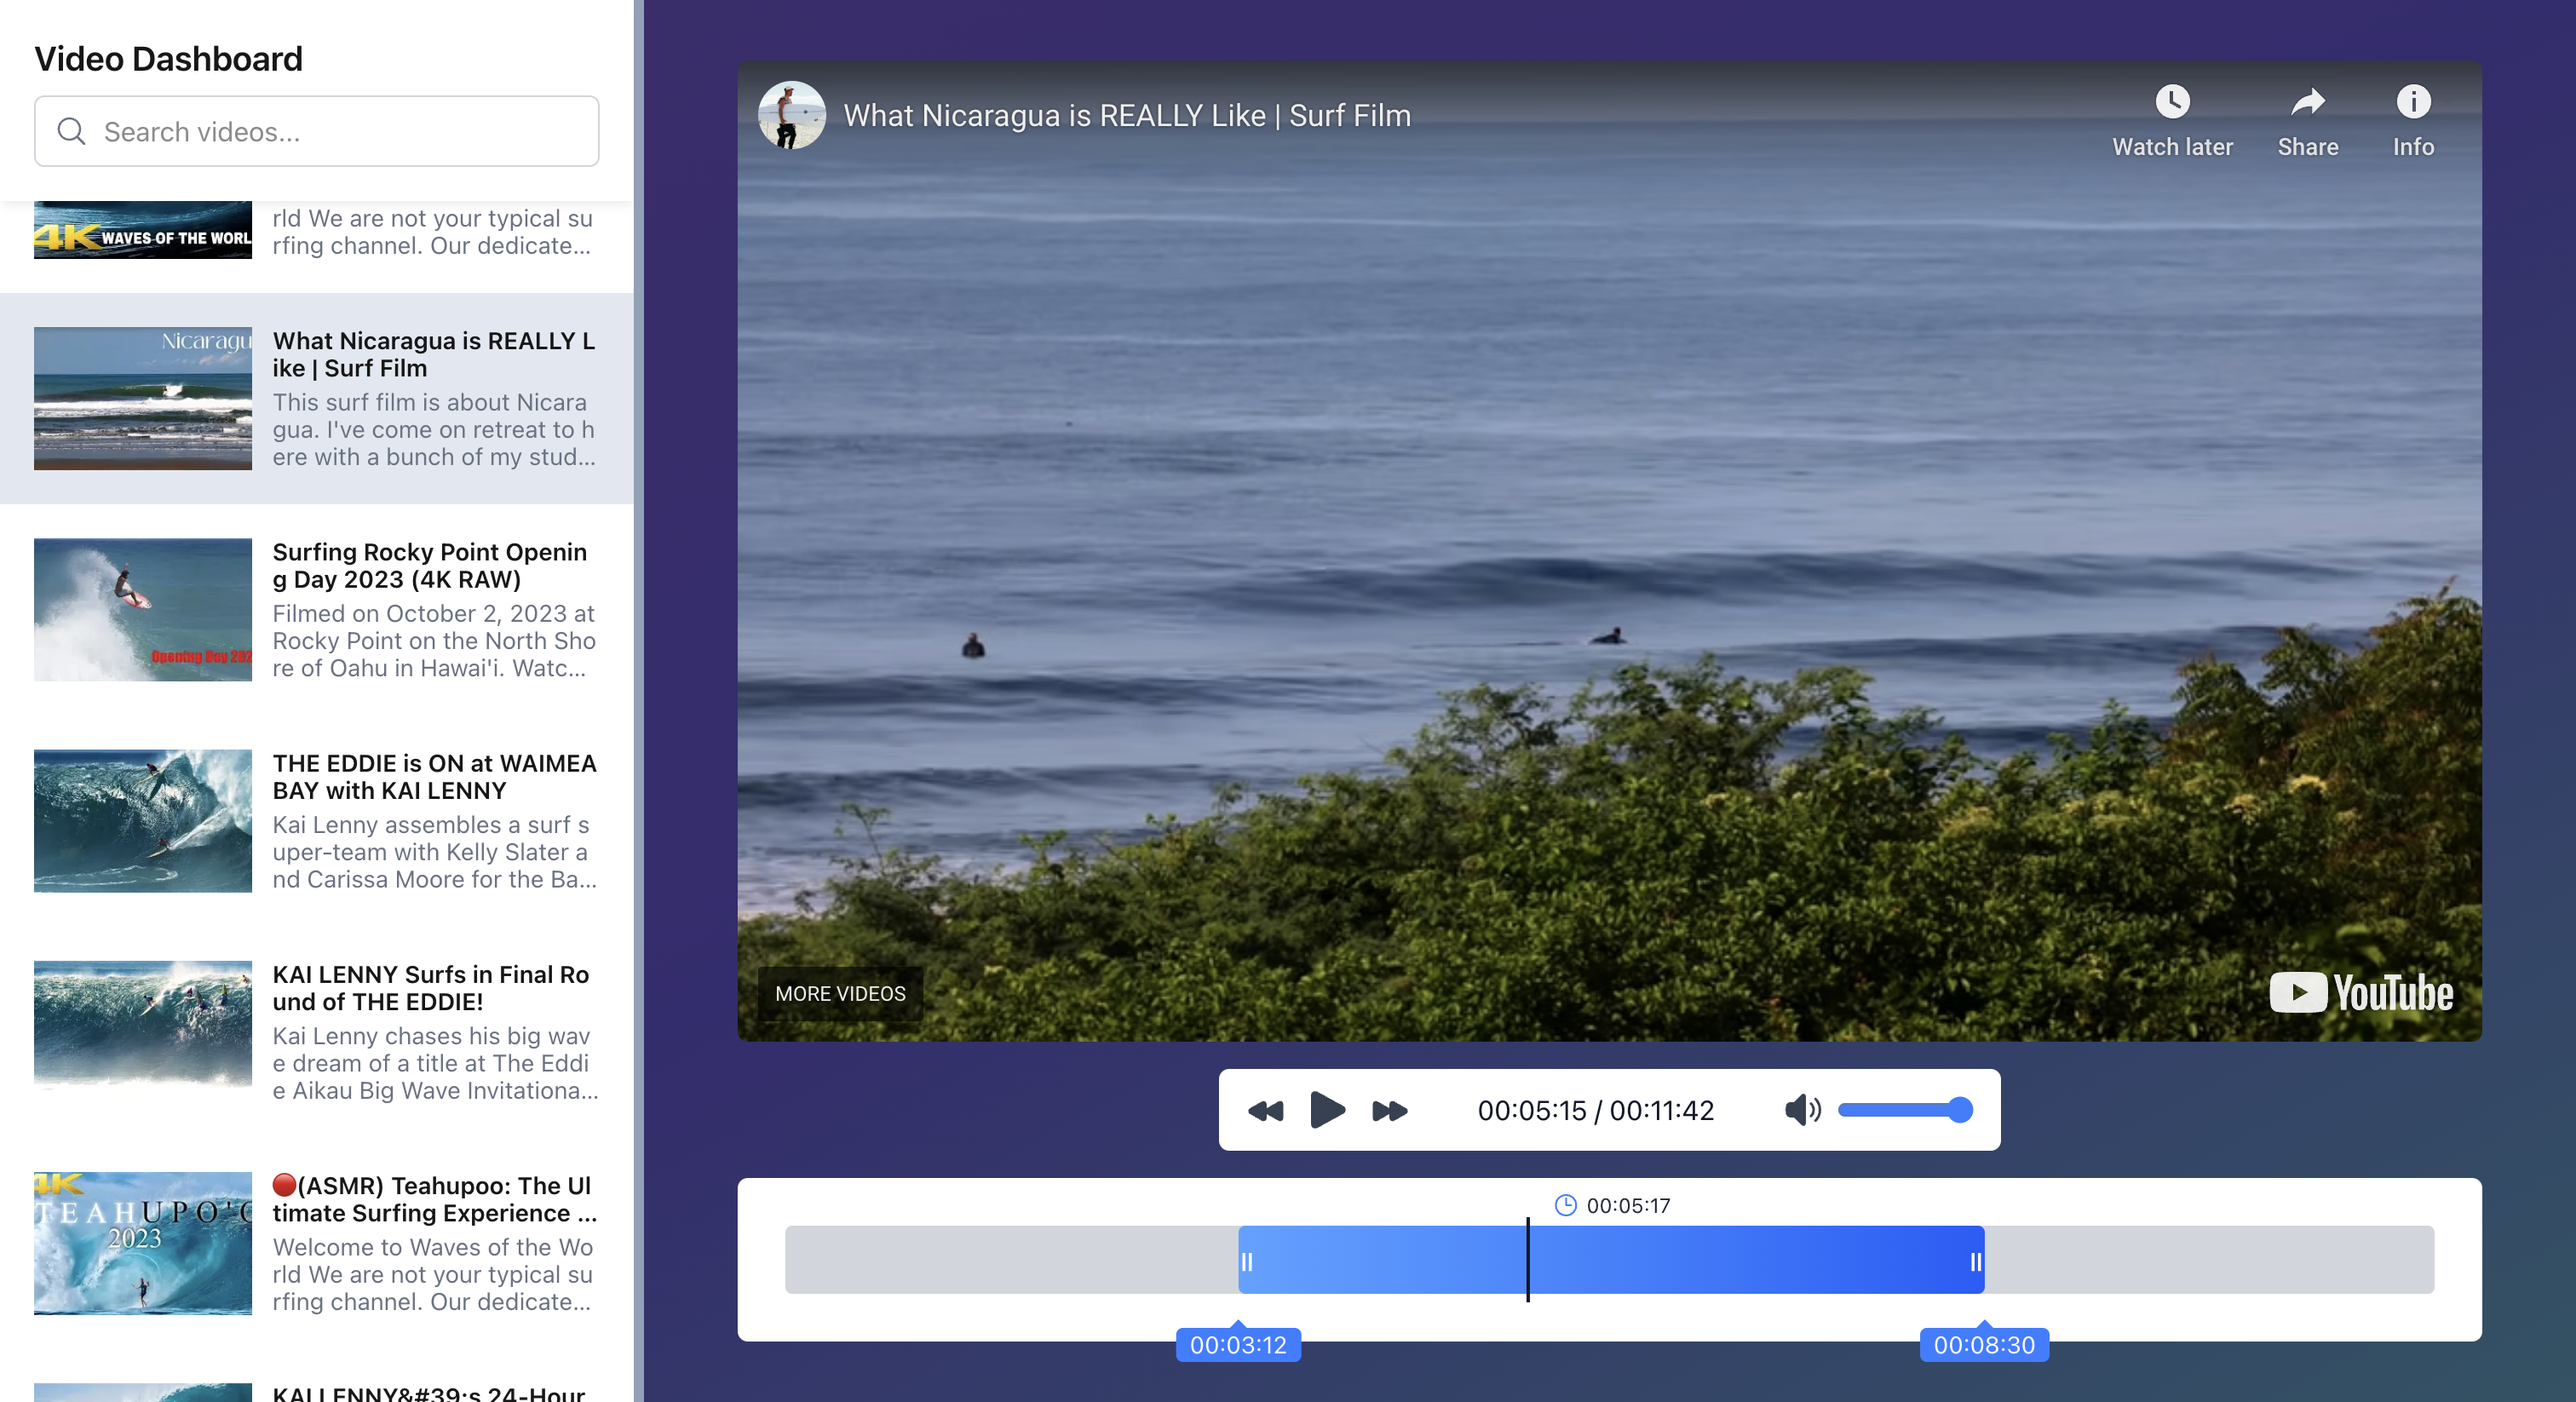
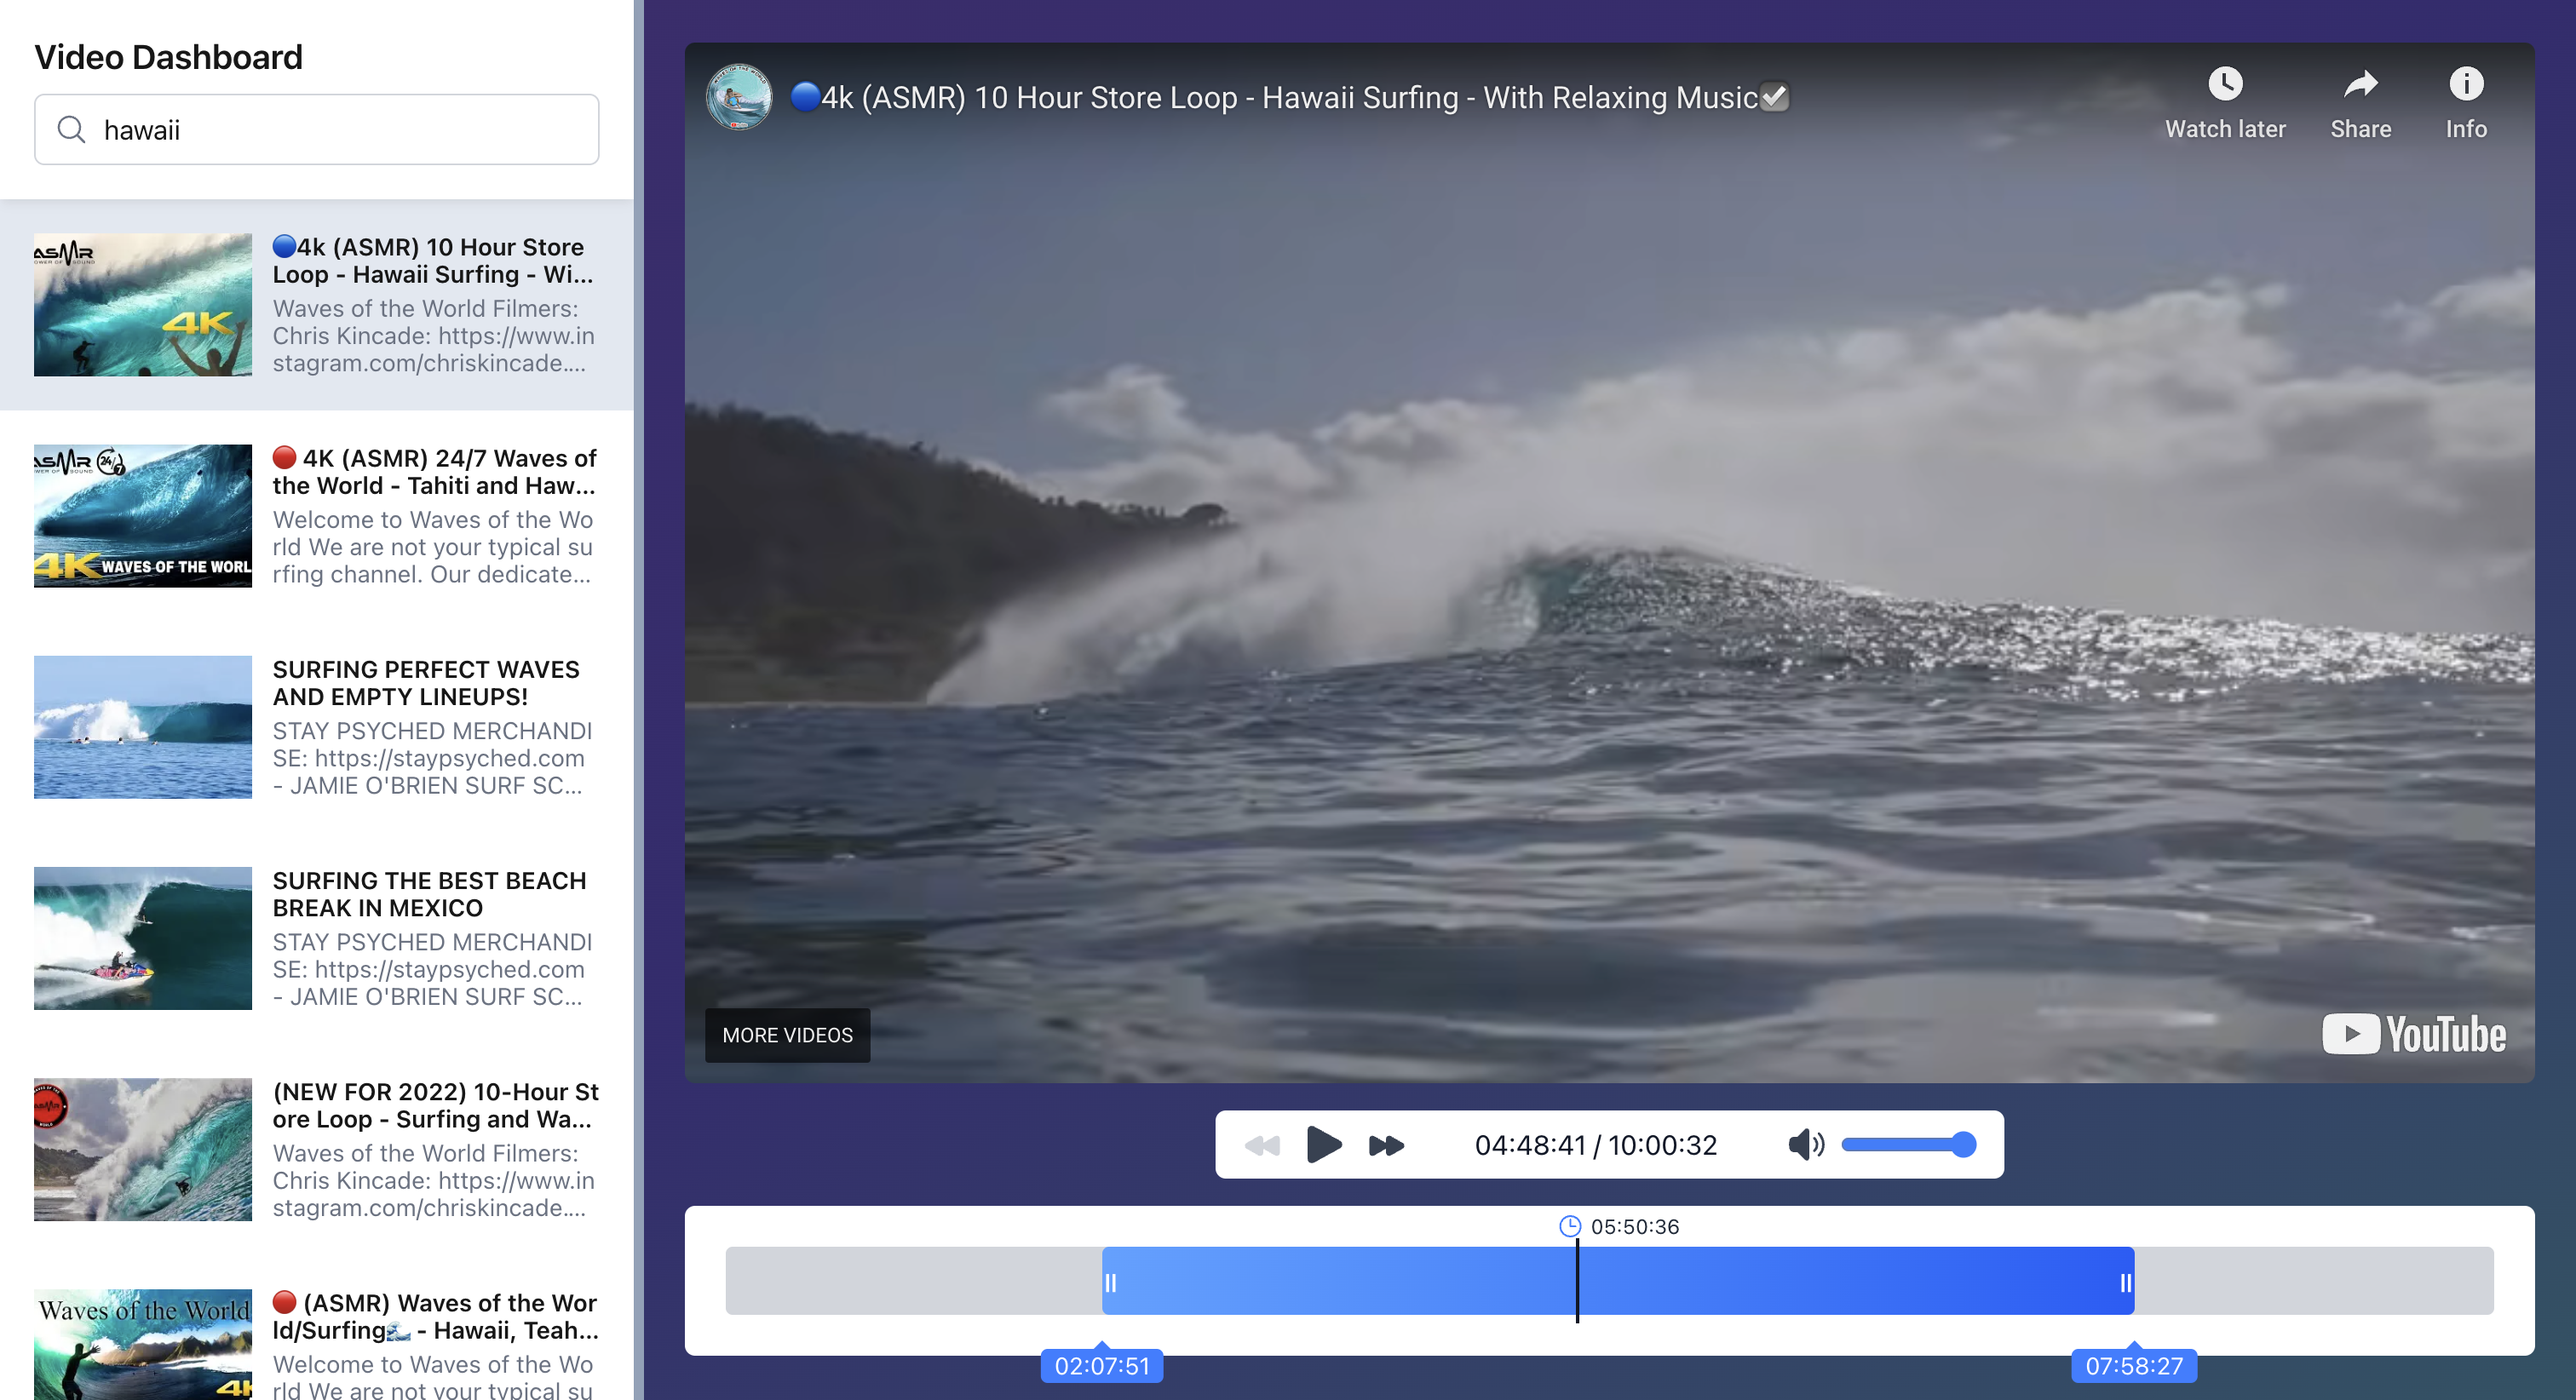
Remove video element size limit, update readme

diff --git a/src/components/ViewingArea/VideoView/index.tsx b/src/components/ViewingArea/VideoView/index.tsx
@@ -24,7 +24,7 @@ const VideoView: React.FC<Props> = ({ videoId, ...videoControlProps }) => {
   });
 
   return (
-    <div className="relative flex min-h-full w-full max-w-5xl flex-col items-center justify-center gap-2 lg:gap-4">
+    <div className="relative flex min-h-full w-full flex-col items-center justify-center gap-2 lg:gap-4">
       {/*using relative&absolute centering and opacity-0 instead of hidden*/}
       {/*to keep the height of the block constant*/}
       {/*and avoid creating jumping of the height on small screens*/}

diff --git a/src/components/ViewingArea/VideoView/Controls.tsx b/src/components/ViewingArea/VideoView/Controls.tsx
@@ -39,7 +39,7 @@ const Controls: React.FC<ControlsProps> = ({
   currentTime,
   duration,
 }) => (
-  <div className="flex w-full items-center justify-between rounded-md bg-white px-2 py-1 lg:w-min lg:gap-10 lg:px-4 lg:py-2">
+  <div className="flex w-full items-center justify-between rounded-md bg-white px-2 py-1 lg:w-min lg:gap-10 lg:px-4">
     {/* Left section */}
     <div className="flex items-center gap-1 md:gap-2">
       {/* Previous video button */}

diff --git a/src/components/ViewingArea/VideoView/Trimmer.tsx b/src/components/ViewingArea/VideoView/Trimmer.tsx
@@ -38,7 +38,7 @@ const Trimmer: React.FC<TrimmerProps> = ({
   );
 
   return (
-    <div className="w-full touch-none rounded-md bg-white p-7">
+    <div className="w-full touch-none rounded-md bg-white p-6">
       {/*Progress bar base*/}
       <div
         ref={trimmerRef}

diff --git a/README.md b/README.md
@@ -33,6 +33,6 @@ Here's a preview of what you'll see:
 Adding unique URLs for each video (`/videos/{id}`) so users can refresh the page without losing their place, share
 videos, and bookmark them.
 
-#2 **Dynamic Video Resizing**:
+#2 **Dynamic Video Player Resizing**:
 Making the video player adjust to 100% of the width or height (depending on screen size) while keeping 16:9 aspect
 ratio.
